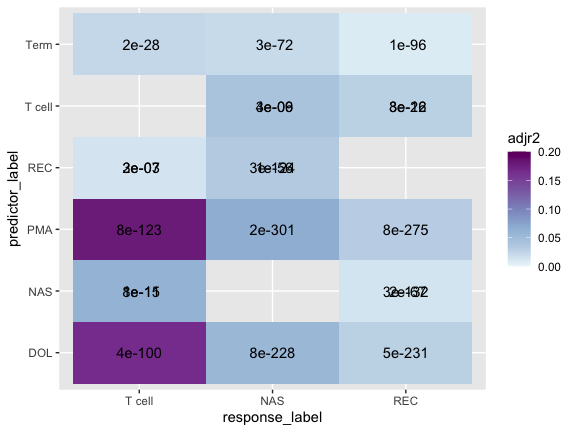
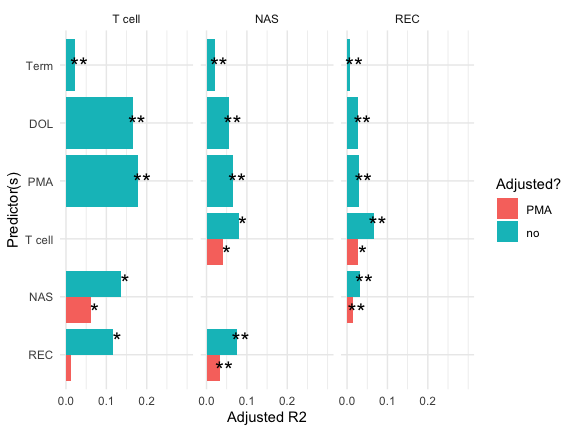
polish r^2 figures

diff --git a/04_multivariate_r2.md b/04_multivariate_r2.md
@@ -18,7 +18,7 @@ library(tidyverse)
 
     ## Warning: package 'tidyverse' was built under R version 3.5.2
 
-    ## ── Attaching packages ────────────────────────────────────────────────────────────────────── tidyverse 1.3.0 ──
+    ## ── Attaching packages ──────────────────────────────────────────────────────────────────────────────── tidyverse 1.3.0 ──
 
     ## ✓ ggplot2 3.3.0     ✓ purrr   0.3.3
     ## ✓ tibble  2.1.3     ✓ dplyr   0.8.5
@@ -39,7 +39,7 @@ library(tidyverse)
 
     ## Warning: package 'forcats' was built under R version 3.5.2
 
-    ## ── Conflicts ───────────────────────────────────────────────────────────────────────── tidyverse_conflicts() ──
+    ## ── Conflicts ─────────────────────────────────────────────────────────────────────────────────── tidyverse_conflicts() ──
     ## x dplyr::filter() masks stats::filter()
     ## x dplyr::lag()    masks stats::lag()
 
@@ -66,7 +66,7 @@ library(car)
     ##     some
 
 ``` r
-subject = read_csv('data/subject_covariates.csv') %>% transmute(ispreterm = preterm_weeks >= 0, Subject)
+subject = read_csv('data/subject_covariates.csv') %>% transmute(ispreterm = preterm_weeks >= 0, Subject, preterm_weeks)
 ```
 
     ## Parsed with column specification:
@@ -239,8 +239,8 @@ mb_tcell_closest %>% group_by(`Subject`) %>% summarize(n())
     ## # … with 137 more rows
 
 ``` r
-pred_table = tibble(covariates = c('Term', 'DOL', 'PMA', 'T cell', 'NAS', 'REC', 'T cell', 'NAS', 'REC'),
-      adjusted = c(FALSE, FALSE, FALSE, FALSE, FALSE, FALSE, TRUE, TRUE, TRUE))
+pred_table = tibble(covariates = c('Term', 'DOL', 'PMA', 'T cell', 'NAS', 'REC', 'T cell', 'NAS', 'REC', 'PMA'),
+      adjusted = c("no", "Term", "Term", "Term", "Term", "Term", 'PMA', 'PMA', 'PMA', 'no'))
 
 r2_res = list()
 for(i in seq_len(nrow(pred_table))){
@@ -258,7 +258,7 @@ for(i in seq_len(nrow(pred_table))){
     
     null_form = . ~  ispreterm
     if(pred == 'Term'){
-      form_ = "lhs_data_comp ~ 1"
+      form_ = "lhs_data_comp ~ ispreterm"
       null_form = . ~ 1
       rhs_data = data['ispreterm']
     } else if(pred == 'DOL'){
@@ -279,9 +279,15 @@ for(i in seq_len(nrow(pred_table))){
     }
     
     # always adjust for preterm
-    form_ = str_c(form_, ' + ispreterm')
+    if(adjusted == 'Term' || adjusted == 'PMA'){
+      form_ = str_c(form_, ' + ispreterm')
+    }
     
-    if(adjusted){
+    if(adjusted == 'GAB'){
+      form_ = str_c(form_, ' + preterm_weeks')
+    }
+    
+    if(adjusted == 'PMA'){
       form_ = str_c(form_, ' + cga')
       rhs_data = cbind(rhs_data, data['cga'])
       null_form = . ~ ispreterm + cga
@@ -303,37 +309,35 @@ for(i in seq_len(nrow(pred_table))){
 ``` r
 r2_res = bind_rows(r2_res) 
 
-r2_res = r2_res %>% 
+r2_res_graph = filter(r2_res, adjusted %in% c('no', 'Term', 'PMA'), !(adjusted == 'no' && predictor_label == "PMA")) %>% 
   mutate(predictor_label2 = factor(predictor_label, levels = rev(c('Term', 'DOL', 'PMA', 'T cell', 'NAS', 'REC'))),
          response_label = factor(response_label, levels = c('T cell', 'NAS', 'REC')), 
-         adjusted = factor(adjusted, levels = c('TRUE', 'FALSE')),
+         pma_adjusted = factor(ifelse(adjusted == 'PMA', 'PMA', 'no'), levels = c('PMA', 'no')),
          pstar = case_when(pval < 1e-20 ~ '**',  pval < 1e-4 ~ '*', TRUE ~ ''))
 
 #p_rhs = r2_res %>% arrange(predictor_label2, p_rhs) %>% split(f = .$predictor_label2) %>% map_dfr(~ .x[[1,]])
 
-ggplot(r2_res, aes(x = response_label, y = predictor_label, fill = adjr2)) + geom_tile() + geom_text(aes(label = format(pval, digits = 1))) + scale_fill_distiller(palette = 3, limits = c(0, .2), direction = 1)
+
+ggplot(r2_res_graph, aes(y = adjr2, x = predictor_label2, fill = pma_adjusted)) + geom_col(position = 'dodge') + coord_flip() + facet_grid(~response_label)+ geom_text(aes(y = adjr2 + .01, label = pstar), position = position_dodge(width = 1), size = 6) + ylab('Adjusted R2') + xlab('Predictor(s)') + scale_y_continuous(limits = c(0, .3), breaks = c(0, .1, .2)) + theme(legend.position = 'bottom') + scale_fill_discrete('Adjusted?', direction = 1) + theme_minimal()
 ```
 
 ![](04_multivariate_r2_files/figure-gfm/plot_mv_r2-1.png)<!-- -->
 
 ``` r
-ggplot(r2_res, aes(y = adjr2, x = predictor_label2, fill = adjusted)) + geom_col(position = 'dodge') + coord_flip() + facet_grid(~response_label)+ geom_text(aes(y = adjr2 + .01, label = pstar), position = position_dodge(width = 1), size = 6) + ylab('Adjusted R2') + xlab('Predictor(s)') + scale_y_continuous(limits = c(0, .3), breaks = c(0, .1, .2)) + theme(legend.position = 'bottom') + scale_fill_discrete('PMA Adjusted?', direction = 1)
-```
-
-![](04_multivariate_r2_files/figure-gfm/plot_mv_r2-2.png)<!-- -->
-
-``` r
-r2_res %>% dplyr::select(-predictor_label2) %>% dplyr::select(predictor_label, response_label, everything()) %>% mutate(adjr2 = round(adjr2, 3)) %>% write_csv(path = 'intermediates/di_results/r2_supp_table.csv')
+r2_res %>% dplyr::select(predictor_label, response_label, everything()) %>% mutate(adjr2 = round(adjr2, 3)) %>% write_csv(path = 'intermediates/di_results/r2_supp_table.csv')
 ```
 
 ## AIC (Smaller is better)
 
 ``` r
-dplyr::filter(r2_res, predictor_label %in% c('Term', 'DOL', 'PMA')) %>% select(predictor_label, response_label, aic_full) %>% tidyr::spread(predictor_label, aic_full) %>% knitr::kable()
+dplyr::filter(r2_res, predictor_label %in% c('Term', 'DOL', 'PMA')) %>% select(predictor_label, response_label, aic_full, adjusted) %>% tidyr::spread(predictor_label, aic_full) %>% knitr::kable()
 ```
 
-| response\_label |       DOL |       PMA |     Term |
-| :-------------- | --------: | --------: | -------: |
-| T cell          |  27011.52 |  26853.06 |  28849.4 |
-| NAS             | 291297.08 | 290113.10 | 297054.0 |
-| REC             | 704856.55 | 704257.27 | 711911.2 |
+| response\_label | adjusted |       DOL |       PMA |     Term |
+| :-------------- | :------- | --------: | --------: | -------: |
+| NAS             | no       |        NA | 290562.90 | 297054.0 |
+| NAS             | Term     | 291297.08 | 290113.10 |       NA |
+| REC             | no       |        NA | 705020.45 | 711911.2 |
+| REC             | Term     | 704856.55 | 704257.27 |       NA |
+| T cell          | no       |        NA |  27133.11 |  28849.4 |
+| T cell          | Term     |  27011.52 |  26853.06 |       NA |
